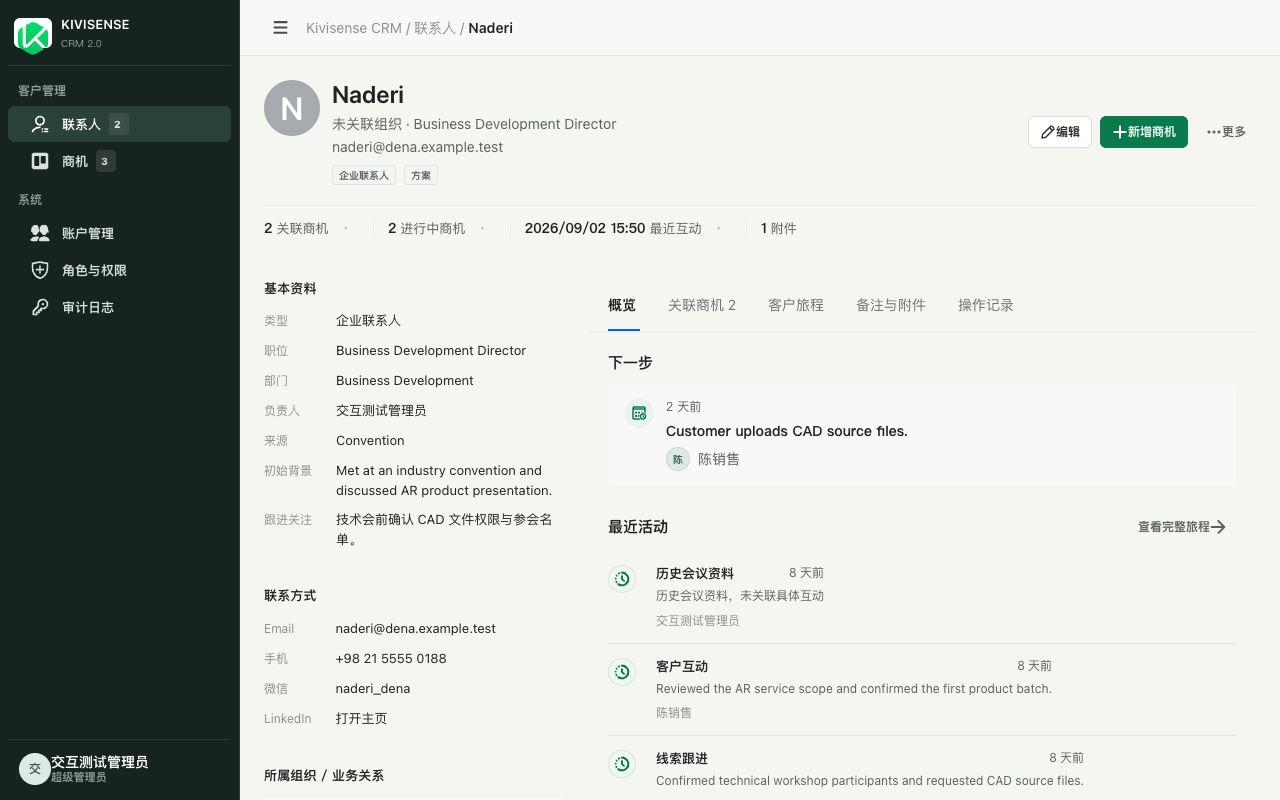
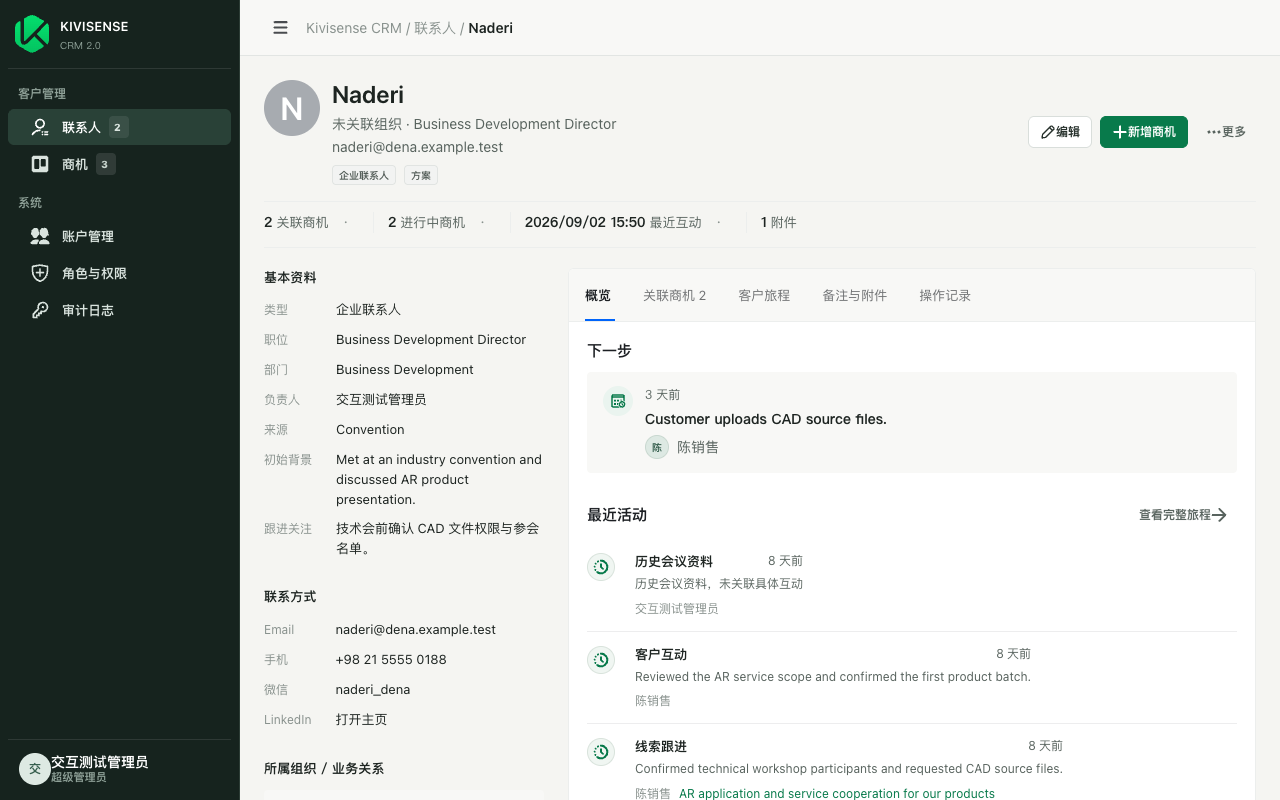
fix(crm): correct record layouts and sidebar branding

diff --git a/frontend-react/src/index.css b/frontend-react/src/index.css
@@ -8798,3 +8798,179 @@ a.crm-contact-brief-primary:hover {
     padding-left: 0;
   }
 }
+
+/* Post-review layout corrections.
+   This block intentionally closes the cascade after the older composition rules. */
+.crm-logo-tile,
+.crm-sidebar[data-collapsed="true"] .crm-logo-tile {
+  width: 36px;
+  height: 38px;
+  flex: 0 0 36px;
+  padding: 0;
+  border: 0;
+  border-radius: 0;
+  background: transparent;
+  box-shadow: none;
+}
+
+.crm-logo-tile img {
+  width: 34px;
+  height: 38px;
+  object-fit: contain;
+}
+
+.crm-brand-lockup {
+  min-height: 48px;
+  gap: 10px;
+}
+
+.crm-list-layout--contact .crm-list-layout-stats {
+  display: flex;
+  width: fit-content;
+  max-width: 100%;
+  padding: 10px 14px;
+  border: 1px solid var(--crm-divider);
+  border-radius: var(--crm-radius-md);
+  background: var(--crm-surface-subtle);
+}
+
+.crm-list-layout--contact .crm-pattern-inline-stats {
+  gap: 0;
+}
+
+.crm-list-layout--contact .crm-pattern-inline-stat {
+  min-height: 20px;
+  padding: 0 14px;
+  border-right: 1px solid var(--crm-divider);
+}
+
+.crm-list-layout--contact .crm-pattern-inline-stat:first-child {
+  padding-left: 0;
+}
+
+.crm-list-layout--contact .crm-pattern-inline-stat:last-child {
+  padding-right: 0;
+  border-right: 0;
+}
+
+.crm-list-layout--contact .crm-pattern-inline-stat::after {
+  display: none;
+}
+
+.crm-record-layout-header {
+  padding-bottom: 16px;
+}
+
+.crm-record-layout-meta {
+  padding: 10px 0 14px;
+  border-bottom: 1px solid var(--crm-divider);
+}
+
+.crm-record-layout-body {
+  grid-template-columns: 300px minmax(0, 1fr);
+  gap: 28px;
+  padding-top: 20px;
+}
+
+.crm-record-layout--contact .crm-record-layout-body {
+  grid-template-columns: 288px minmax(0, 1fr);
+}
+
+.crm-record-layout--marketing-lead .crm-record-layout-body {
+  grid-template-columns: 320px minmax(0, 1fr);
+}
+
+.crm-record-layout-sidebar {
+  gap: 20px;
+}
+
+.crm-record-layout-sidebar .crm-section-header {
+  padding-bottom: 10px;
+}
+
+.crm-record-layout-sidebar .crm-section-body {
+  padding-bottom: 16px;
+}
+
+.crm-record-layout-workspace > .crm-detail-tabs,
+.crm-record-layout-workspace > .crm-pattern-record-tabs {
+  overflow: hidden;
+  border: 1px solid var(--crm-divider);
+  border-radius: var(--crm-radius-md);
+  background: var(--crm-surface);
+}
+
+.crm-record-layout .crm-detail-tabs .semi-tabs-bar,
+.crm-record-layout .crm-pattern-record-tabs .semi-tabs-bar {
+  min-height: 44px;
+  margin: 0;
+  padding: 0 16px;
+  border-bottom: 1px solid var(--crm-divider);
+  background: var(--crm-surface-subtle);
+}
+
+.crm-record-layout .crm-detail-tabs .semi-tabs-tab,
+.crm-record-layout .crm-pattern-record-tabs .semi-tabs-tab {
+  min-height: 44px;
+  font-size: 13px;
+}
+
+.crm-record-layout .crm-detail-tabs .semi-tabs-content,
+.crm-record-layout .crm-pattern-record-tabs .semi-tabs-content {
+  padding: 18px;
+}
+
+.crm-record-layout-stages {
+  padding: 12px 0 14px;
+  border-top: 0;
+  border-bottom: 1px solid var(--crm-divider);
+}
+
+.crm-record-layout-stages .crm-stage-path,
+.crm-record-layout-stages .semi-steps-basic {
+  padding: 0;
+  border: 0;
+  border-radius: 0;
+  background: transparent !important;
+  box-shadow: none;
+}
+
+.crm-record-layout-stages .semi-steps-item-title {
+  font-size: 12px;
+  font-weight: 600;
+}
+
+.crm-contact-profile {
+  gap: 20px;
+}
+
+@media (max-width: 1280px) {
+  .crm-record-layout-body,
+  .crm-record-layout--contact .crm-record-layout-body,
+  .crm-record-layout--marketing-lead .crm-record-layout-body {
+    grid-template-columns: 280px minmax(0, 1fr);
+    gap: 24px;
+  }
+}
+
+@media (max-width: 1100px) {
+  .crm-record-layout-body,
+  .crm-record-layout--contact .crm-record-layout-body,
+  .crm-record-layout--marketing-lead .crm-record-layout-body {
+    grid-template-columns: minmax(0, 1fr);
+  }
+
+  .crm-list-layout--contact .crm-list-layout-stats {
+    width: 100%;
+  }
+}
+
+@media (max-width: 720px) {
+  .crm-list-layout--contact .crm-pattern-inline-stat {
+    padding: 0 8px;
+  }
+
+  .crm-list-layout--contact .crm-pattern-inline-stat:first-child {
+    padding-left: 0;
+  }
+}

diff --git a/frontend-react/src/components/crm/layout.tsx b/frontend-react/src/components/crm/layout.tsx
@@ -68,14 +68,16 @@ export function CRMPageContainer({
 export function CRMListLayout({
   header,
   stats,
+  className,
   children,
 }: {
   header: ReactNode;
   stats?: ReactNode;
+  className?: string;
   children: ReactNode;
 }) {
   return (
-    <div className="crm-list-layout">
+    <div className={cn("crm-list-layout", className)}>
       {header}
       {stats ? <div className="crm-list-layout-stats">{stats}</div> : null}
       <div className="crm-list-layout-workspace">{children}</div>
@@ -88,16 +90,18 @@ export function CRMRecordLayout({
   inlineMeta,
   stages,
   sidebar,
+  className,
   children,
 }: {
   header: ReactNode;
   inlineMeta?: ReactNode;
   stages?: ReactNode;
   sidebar: ReactNode;
+  className?: string;
   children: ReactNode;
 }) {
   return (
-    <div className="crm-record-layout">
+    <div className={cn("crm-record-layout", className)}>
       <header className="crm-record-layout-header">{header}</header>
       {inlineMeta ? (
         <div className="crm-record-layout-meta">{inlineMeta}</div>

diff --git a/frontend-react/src/pages/marketing-leads-page.tsx b/frontend-react/src/pages/marketing-leads-page.tsx
@@ -304,6 +304,7 @@ export function MarketingLeadsPage({ id, me, users }: { id?: string; me: Session
     return (
       <PageContent mode="list" breadcrumbs={[{ label: "Kivisense CRM", href: "#dashboard" }, { label: "线索" }]}>
         <CRMListLayout
+          className="crm-list-layout--marketing-lead"
           header={<CRMPageHeader
           title="线索"
           description="管理获客来源、原始询盘、评分与资格确认。"
@@ -421,6 +422,7 @@ export function MarketingLeadsPage({ id, me, users }: { id?: string; me: Session
   return (
     <PageContent detail breadcrumbs={[{ label: "Kivisense CRM", href: "#dashboard" }, { label: "线索", href: "#marketing-leads" }, { label: lead.fullName }]}>
       <CRMRecordLayout
+        className="crm-record-layout--marketing-lead"
         header={<CRMRecordHeader
           identity={<UserAvatar name={lead.fullName} large showName={false} />}
           name={lead.fullName}

diff --git a/frontend-react/src/pages/organizations-page.tsx b/frontend-react/src/pages/organizations-page.tsx
@@ -373,6 +373,7 @@ export function OrganizationsPage({ me, users, id, supplier = false }: Props) {
     >
       {!id ? (
         <CRMListLayout
+          className={supplier ? "crm-list-layout--supplier" : "crm-list-layout--organization"}
           header={<CRMPageHeader
             title={supplier ? "供应商" : "组织"}
             description={supplier ? "查看组织关系为供应商的统一组织主档。" : "管理客户、合作伙伴与供应商的统一组织主档。"}
@@ -505,6 +506,7 @@ export function OrganizationsPage({ me, users, id, supplier = false }: Props) {
         <ErrorState error={detail.error} retry={detail.reload} />
       ) : (
         <CRMRecordLayout
+          className={supplier ? "crm-record-layout--supplier" : "crm-record-layout--organization"}
           header={<CRMRecordHeader
             identity={<CompanyLogo organization={organization} large />}
             name={organization.name}

diff --git a/frontend-react/src/pages/entities-page.tsx b/frontend-react/src/pages/entities-page.tsx
@@ -407,6 +407,7 @@ export function EntitiesPage({
     >
       {!id ? (
         <CRMListLayout
+          className={kind === "contact" ? "crm-list-layout--contact" : "crm-list-layout--opportunity"}
           header={
             <CRMPageHeader
               title={label}
@@ -670,6 +671,7 @@ export function EntitiesPage({
         <LoadingSkeleton detail />
       ) : (
         <CRMRecordLayout
+          className={kind === "contact" ? "crm-record-layout--contact" : "crm-record-layout--opportunity"}
           header={kind === "contact" ? (
             <CRMRecordHeader
               name={nameOf(row)}

diff --git a/frontend-react/src/components/app-sidebar.tsx b/frontend-react/src/components/app-sidebar.tsx
@@ -38,10 +38,6 @@ const navGroups: Array<{ label: string; items: NavItem[] }> = [
     ],
   },
   {
-    label: "资源",
-    items: [{ label: "供应商", route: "suppliers", icon: <IconUserGroup />, permission: "crm.organization.view" }],
-  },
-  {
     label: "系统",
     items: [
       { label: "账户管理", route: "accounts", icon: <IconUserGroup />, permission: "account.view" },
